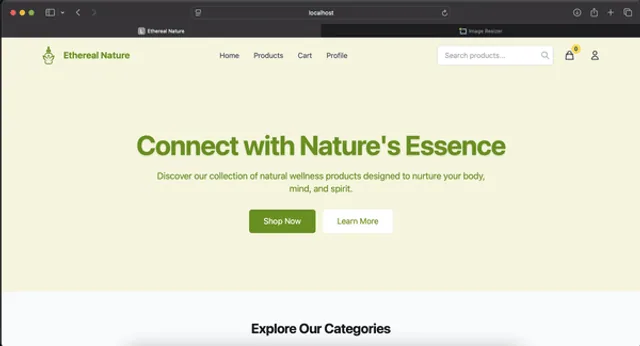
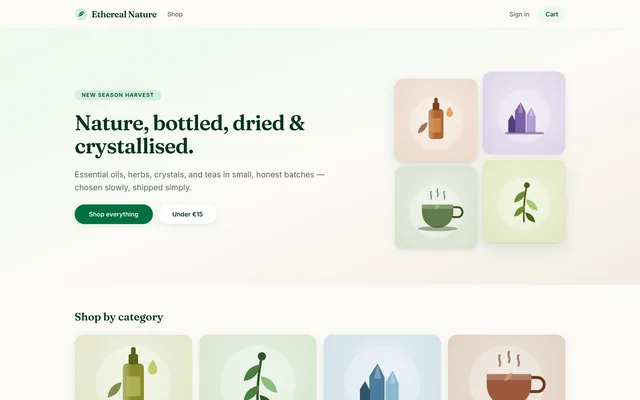
Replace EtherealNature screenshots with the README showcase
Swaps the three old 600px storefront shots for the current ones from the
ethereal_nature README (docs/screenshots), converted to 1600x1000 PNGs like
blockprint's so they get 320/640/1280 WebP variants: storefront home (hero),
catalog, cart drawer, admin dashboard and admin products. The admin login
shot is left out, and the README's product-detail shot duplicates the
catalog, so it is skipped until it is retaken.

diff --git a/src/data/projects.ts b/src/data/projects.ts
@@ -50,11 +50,13 @@ export const projects: Project[] = [
     title: 'EtherealNature',
     label: 'web · full-stack',
     description: 'A full-stack e-commerce platform: an SSR TanStack Start storefront and admin dashboard over a modular Kotlin/Ktor + PostgreSQL backend, tied together by generated OpenAPI clients.',
-    image: projectImage('ethnature.png', 600, 324, [320, 640], 'EtherealNature storefront home page', CARD_SIZES),
+    image: projectImage('ethnature.png', 1600, 1000, [320, 640, 1280], 'EtherealNature storefront home page', CARD_SIZES),
     additionalImages: [
-      projectImage('ethnature.png', 600, 324, [320, 640], 'EtherealNature storefront home page'),
-      projectImage('ethnature2.png', 602, 324, [320, 640], 'EtherealNature product catalog'),
-      projectImage('ethnature3.png', 608, 324, [320, 640], 'EtherealNature shopping cart'),
+      projectImage('ethnature.png', 1600, 1000, [320, 640, 1280], 'EtherealNature storefront home page'),
+      projectImage('ethnature-2.png', 1600, 1000, [320, 640, 1280], 'EtherealNature product catalog'),
+      projectImage('ethnature-3.png', 1600, 1000, [320, 640, 1280], 'EtherealNature cart drawer with the estimated total and checkout'),
+      projectImage('ethnature-4.png', 1600, 1000, [320, 640, 1280], 'EtherealNature admin dashboard in read-only demo mode: product and order counts, recent orders'),
+      projectImage('ethnature-5.png', 1600, 1000, [320, 640, 1280], 'EtherealNature admin product list with category filter, search, prices and stock'),
     ],
     techStack: ['TanStack Start', 'React', 'TypeScript', 'Kotlin', 'Ktor', 'PostgreSQL', 'Turborepo', 'OpenAPI'],
     categories: ['web'],
